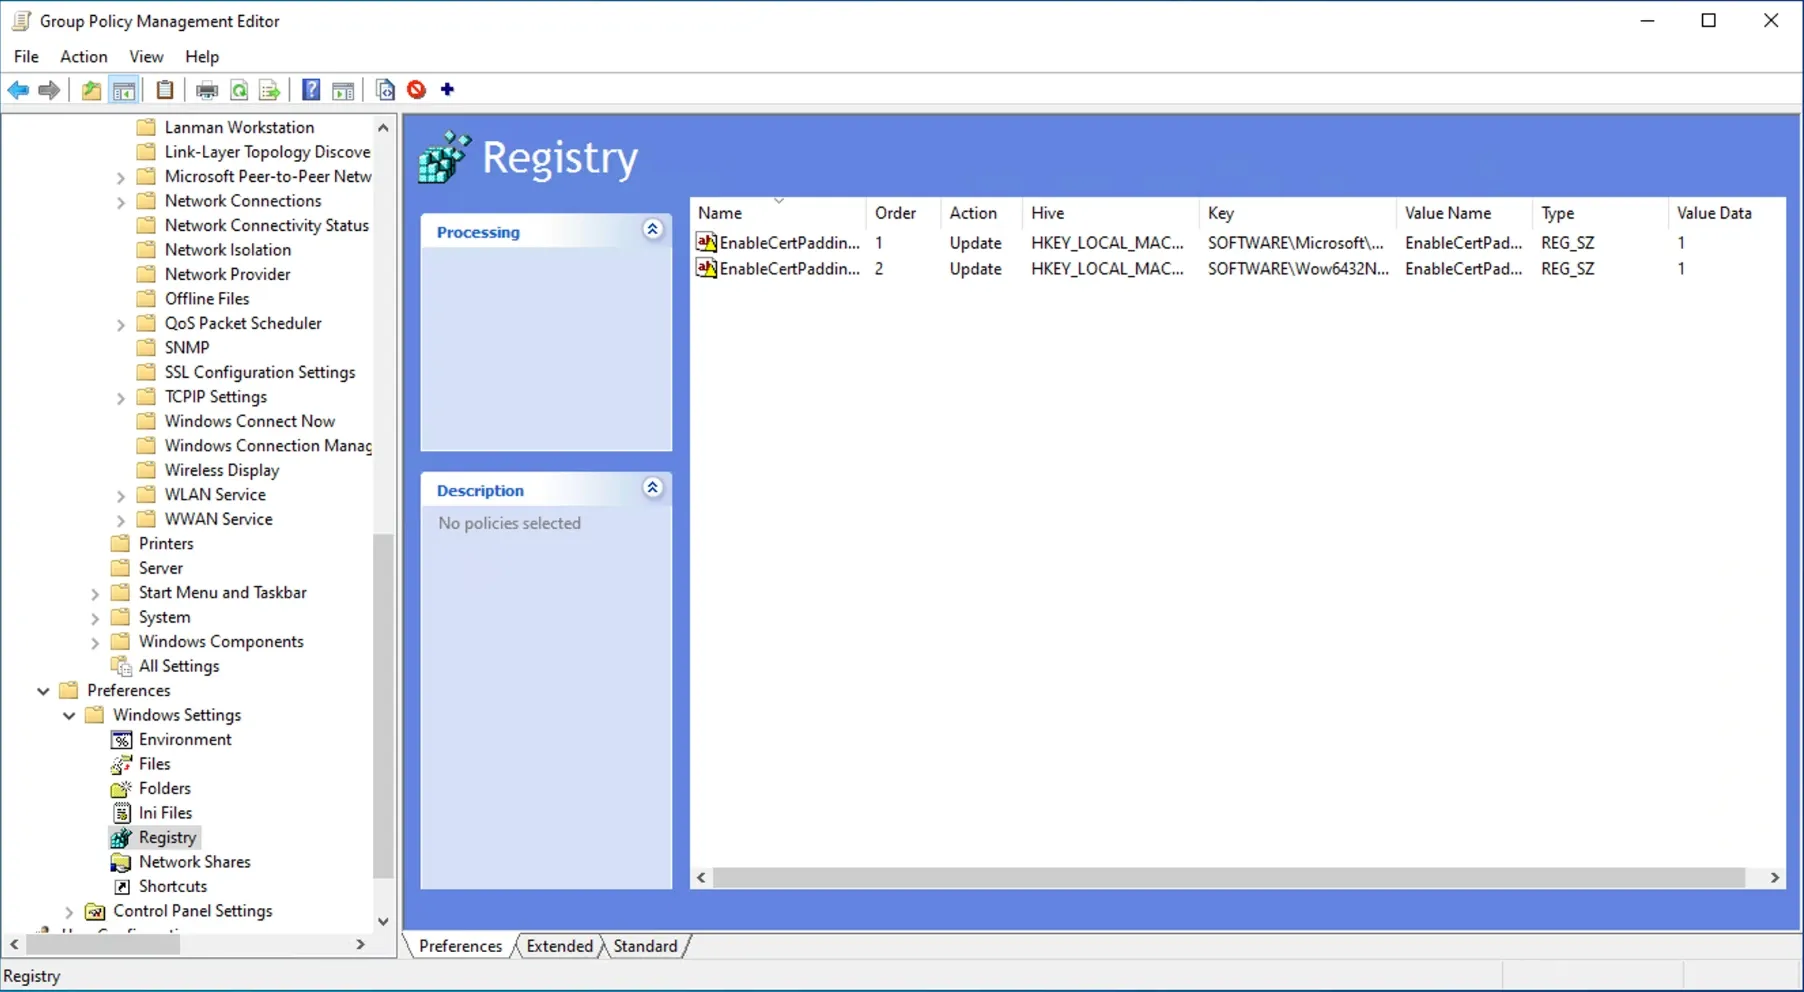
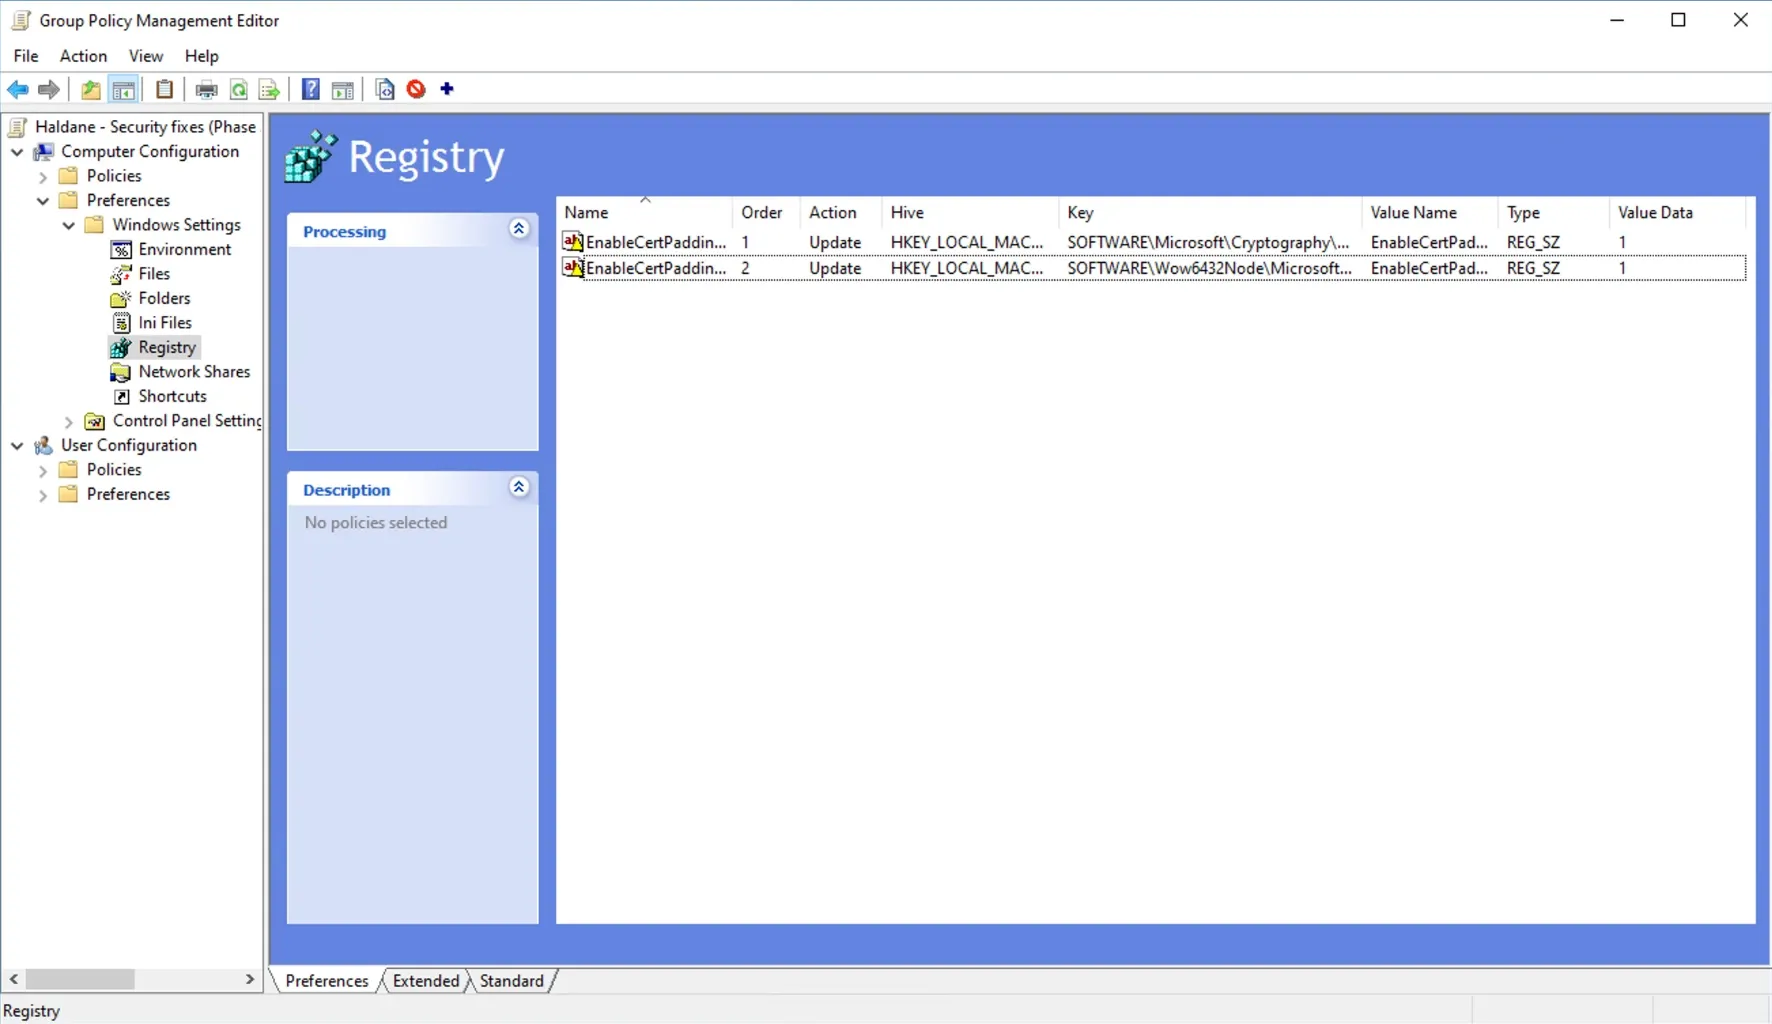
Phase 3: fixes applied by hand in Group Policy, verified on both servers
Claude-Session: https://claude.ai/code/session_013EdpwsRsm1zfaT9CvjEeED

Changed region(s): [[0.0, 0.0, 1.0, 1.0]]

diff --git a/docs/03-vulnerability-management.md b/docs/03-vulnerability-management.md
@@ -121,7 +121,7 @@ explained below.*
 
 | Rank | Finding | Nessus | Servers | Why this position | Action |
 | --- | --- | --- | --- | --- | --- |
-| 1 | WinVerifyTrust CVE-2013-3900 | High 8.8 | DC01, WS01 | Known to be exploited in real attacks; VPR 9.5 and EPSS 44.65% are the highest real-world risk in the scan. Affects the domain controller. The fix is two registry values. | Fixed (Group Policy) |
+| 1 | WinVerifyTrust CVE-2013-3900 | High 8.8 | DC01, WS01 | Known to be exploited in real attacks; VPR 9.5 and EPSS 44.65% are the highest real-world risk in the scan. Affects the domain controller. The fix is two registry values. | Fixed (Group Policy, by hand) |
 | 2 | LLMNR enabled | Info | DC01, WS01 | Rated "Info", but it is the first step of a common credential-theft attack: an attacker answers name lookups and collects logins. Off by one policy setting. | Fixed (Group Policy) |
 | 3 | SMB signing not required | Medium 5.3 | WS01 | Combined with LLMNR, captured logins can be relayed to WS01. Together, 2 and 3 form one attack path. | Fixed (Group Policy) |
 | 4 | ASP.NET Core 6.0 out of support | Critical 10.0 | DC01, WS01 | Nessus scores any unsupported software 10.0 by default. No website or .NET app runs on these servers, so there is little for an attacker to reach. Still a real risk if a flaw is found, as it will never be patched. | Planned change |
@@ -139,22 +139,49 @@ recorded here.
 
 ## Applying the fixes
 
-The fixes are one Group Policy, "Haldane - Security fixes (Phase 3)", linked
-to the domain so every machine receives it. It was applied with
-[`apply-fixes.sh`](../scripts/apply-fixes.sh) (via `lab.sh fix`) and checked
-with [`verify-fixes.sh`](../scripts/verify-fixes.sh). The same settings by
-hand, in Group Policy Management on DC01:
-
-Before the fixes, `verify-fixes.sh` showed none of the three in place except
-SMB signing on DC01 (domain controllers require it by default):
-
-![Before: CVE-2013-3900 values and LLMNR policy missing on both servers; SMB signing not required on WS01](../images/phase3-fixes-before.webp)
+The fixes were applied **by hand** in Group Policy Management on DC01, as one
+Group Policy, "Haldane - Security fixes (Phase 3)", linked to the domain so
+every machine receives it. [`09-security-fixes.ps1`](../scripts/windows/09-security-fixes.ps1)
+holds the same settings as code, for rebuilding the lab.
 
 | Finding | Where in the Group Policy editor | Setting |
 | --- | --- | --- |
-| SMB signing | Computer Configuration > Policies > Windows Settings > Security Settings > Local Policies > Security Options | "Microsoft network server: Digitally sign communications (always)" = Enabled |
-| LLMNR | Computer Configuration > Policies > Administrative Templates > Network > DNS Client | "Turn off multicast name resolution" = Enabled |
-| CVE-2013-3900 | Computer Configuration > Preferences > Windows Settings > Registry (no built-in setting exists) | `EnableCertPaddingCheck` = `1` (REG_SZ) under `HKLM\SOFTWARE\Microsoft\Cryptography\Wintrust\Config` and the `Wow6432Node` equivalent |
+| SMB signing | Computer Configuration > Policies > Windows Settings > Security Settings > Local Policies > Security Options | "Microsoft network **server**: Digitally sign communications (always)" = Enabled |
+| LLMNR | Computer Configuration > Policies > Administrative Templates > Network > DNS Client | "Turn off **multicast** name resolution" = Enabled |
+| CVE-2013-3900 | Computer Configuration > Preferences > Windows Settings > Registry (no built-in setting exists) | `EnableCertPaddingCheck` = `1` (REG_SZ) under `HKLM\SOFTWARE\Microsoft\Cryptography\Wintrust\Config` and `HKLM\SOFTWARE\Wow6432Node\Microsoft\Cryptography\Wintrust\Config` |
+
+Two near-misses worth knowing: the editor has a "Microsoft network **client**"
+setting next to the server one, and a "Turn off **smart multi-homed** name
+resolution" setting next to the LLMNR one. Both look right at a glance and
+would not have fixed anything.
+
+| Step | Evidence |
+| --- | --- |
+| New policy, linked to the domain | ![Creating the GPO](../images/phase3-gpo-new.webp) ![GPO linked to haldane.local](../images/phase3-gpo-created.webp) |
+| SMB signing required | ![SMB signing setting](../images/phase3-gpo-smb-signing.webp) ![SMB signing enabled](../images/phase3-gpo-smb-signing-set.webp) |
+| LLMNR off | ![LLMNR setting](../images/phase3-gpo-llmnr.webp) ![LLMNR enabled](../images/phase3-gpo-llmnr-set.webp) |
+| CVE-2013-3900 registry values | ![Both EnableCertPaddingCheck items](../images/phase3-gpo-certpadding.webp) |
+| Policy summary | ![GPO settings report](../images/phase3-gpo-settings.webp) |
+
+### Verifying the fixes
+
+[`verify-fixes.sh`](../scripts/verify-fixes.sh) refreshes Group Policy on both
+servers and reads the actual values back.
+
+Before:
+
+![Before: CVE-2013-3900 values and LLMNR policy missing on both servers; SMB signing not required on WS01](../images/phase3-fixes-before.webp)
+
+The first check after applying the policy showed `CertPadding32` still blank
+on both servers. The 32-bit registry path had been mistyped (first missing
+`\Microsoft`, then missing `Node`), so Windows wrote the value to a key it
+never reads. Each was corrected in the policy and re-verified. Without the
+check, the fix would have been reported as done while the 32-bit side of the
+vulnerability stayed open.
+
+After:
+
+![After: all four values correct on DC01 and WS01](../images/phase3-fixes-verified.webp)
 
 ## Decision: one Kali VM for scanning and attack simulation
 
@@ -206,3 +233,4 @@ WS01 correctly has no DNS, Kerberos or LDAP: it isn't a domain controller.
 | `install-nessus.sh` failed: `curl: command not found` | The Azure Kali image is a minimal install | The script installs curl first if it's missing |
 | First scan finished in 4 minutes with 0 hosts | DC01 had been shut down from inside Windows ("VM stopped", which still bills), and WS01 doesn't answer ping, so Nessus treated both as offline. A port test from Kali showed only WS01's RDP port reachable | Started DC01 with `az vm start`; lab VMs are only ever stopped with `stop-lab.sh` (deallocate) |
 | WS01's SMB (445) and RPC (135) ports blocked from Kali | Windows Firewall blocks remote management by default | A Group Policy opens them to KALI01 (10.10.2.4) only ([`08-allow-scanner.ps1`](../scripts/windows/08-allow-scanner.ps1)) |
+| `CertPadding32` still blank after the fix | The 32-bit registry path in the policy was mistyped twice | Corrected the path and re-ran `verify-fixes.sh` until both servers showed `1` |
